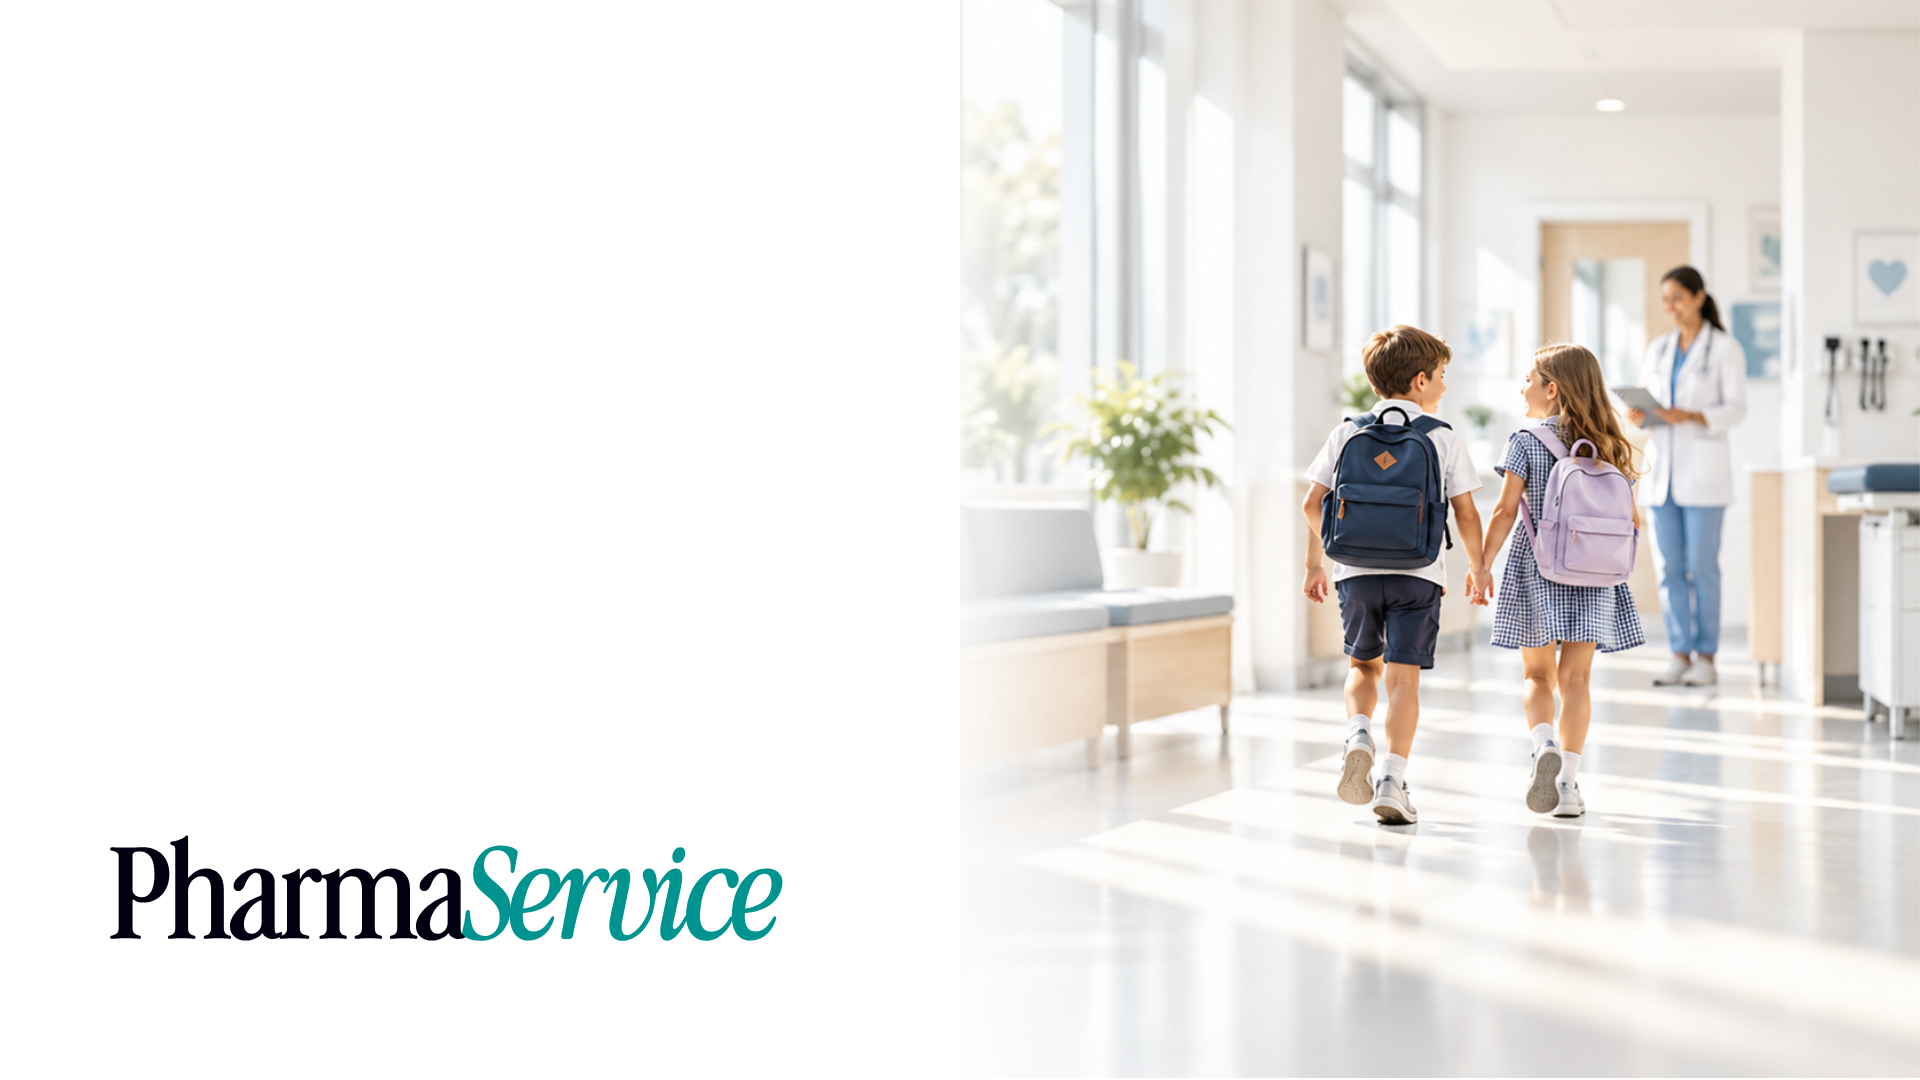
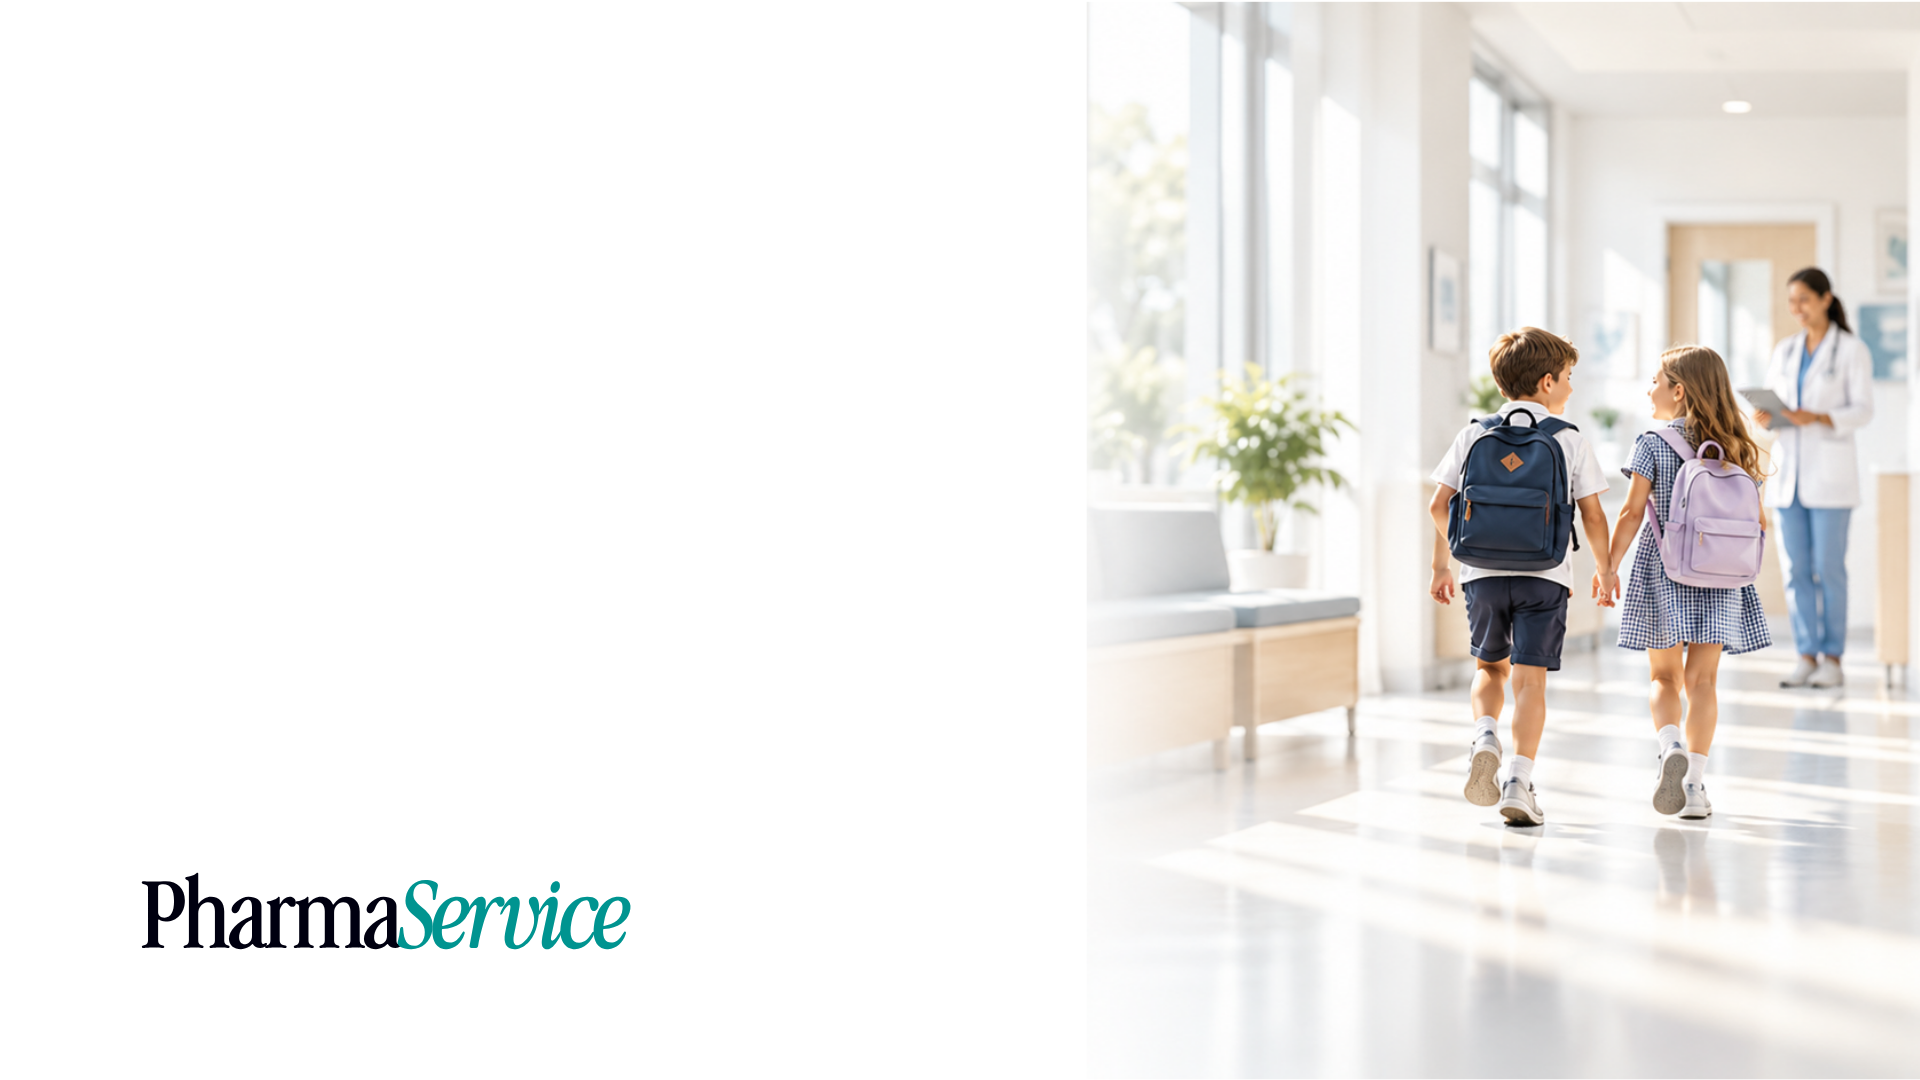
Add files via upload

diff --git a/v39-34-home-community.css b/v39-34-home-community.css
@@ -12,7 +12,7 @@
   min-height:650px;
   border-bottom:1px solid #ddd7ce;
   background:#fbfaf7;
-  padding:clamp(70px,7vw,112px) clamp(46px,4vw,78px);
+  padding:clamp(70px,7vw,112px) 0;
   display:flex;
   align-items:center;
 }
@@ -24,7 +24,7 @@
   z-index:-2;
   inset:-2%;
   pointer-events:none;
-  background-image:url("/assets/home-community-section-bg.png?v=3935");
+  background-image:url("/assets/home-community-section-bg.png?v=3936");
   background-repeat:no-repeat;
   background-size:cover;
   background-position:center center;
@@ -51,14 +51,16 @@
 }
 
 .homeCommunityInner{
-  width:min(100%,1440px);
-  margin:0 auto;
+  width:100%;
+  max-width:none;
+  margin:0;
   position:relative;
 }
 
 .homeCommunityCopy{
-  width:min(43%,700px);
-  max-width:700px;
+  width:min(42%,680px);
+  max-width:680px;
+  margin-left:7.35%;
   margin-top:-2%;
 }
 
@@ -131,12 +133,13 @@
   .homeCommunitySection{
     height:clamp(620px,59vw,720px);
     min-height:620px;
-    padding-left:38px;
-    padding-right:38px;
+    padding-left:0;
+    padding-right:0;
   }
 
   .homeCommunityCopy{
-    width:46%;
+    width:44%;
+    margin-left:7.35%;
   }
 
   .homeCommunityCopy h2{

diff --git a/index.html b/index.html
@@ -31,7 +31,7 @@
   <link rel="stylesheet" href="/v39-26-workshop-contact.css?v=3926" />
   <link rel="stylesheet" href="/v39-27-contact-fix.css?v=3927" />
   <link rel="stylesheet" href="/v39-32-site-microinteractions.css?v=3932" />
-  <link rel="stylesheet" href="/v39-34-home-community.css?v=3935" />
+  <link rel="stylesheet" href="/v39-34-home-community.css?v=3936" />
 </head>
 <body>
   <div id="app"></div>
